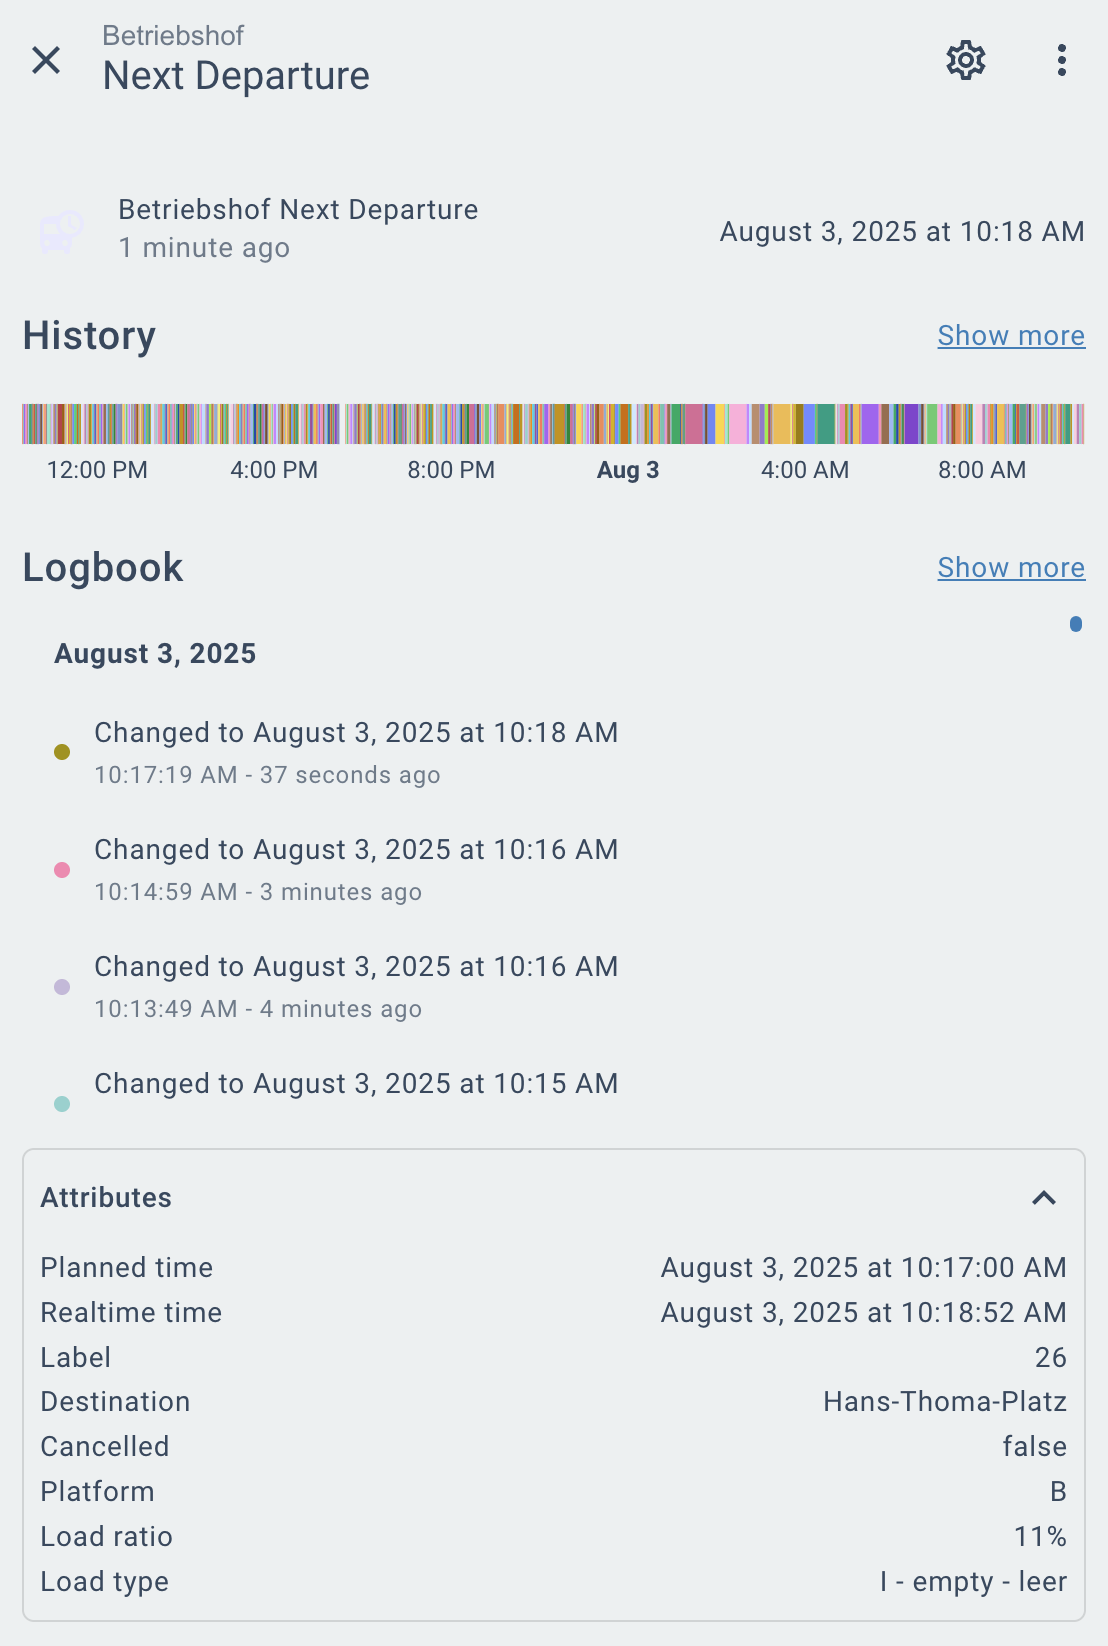
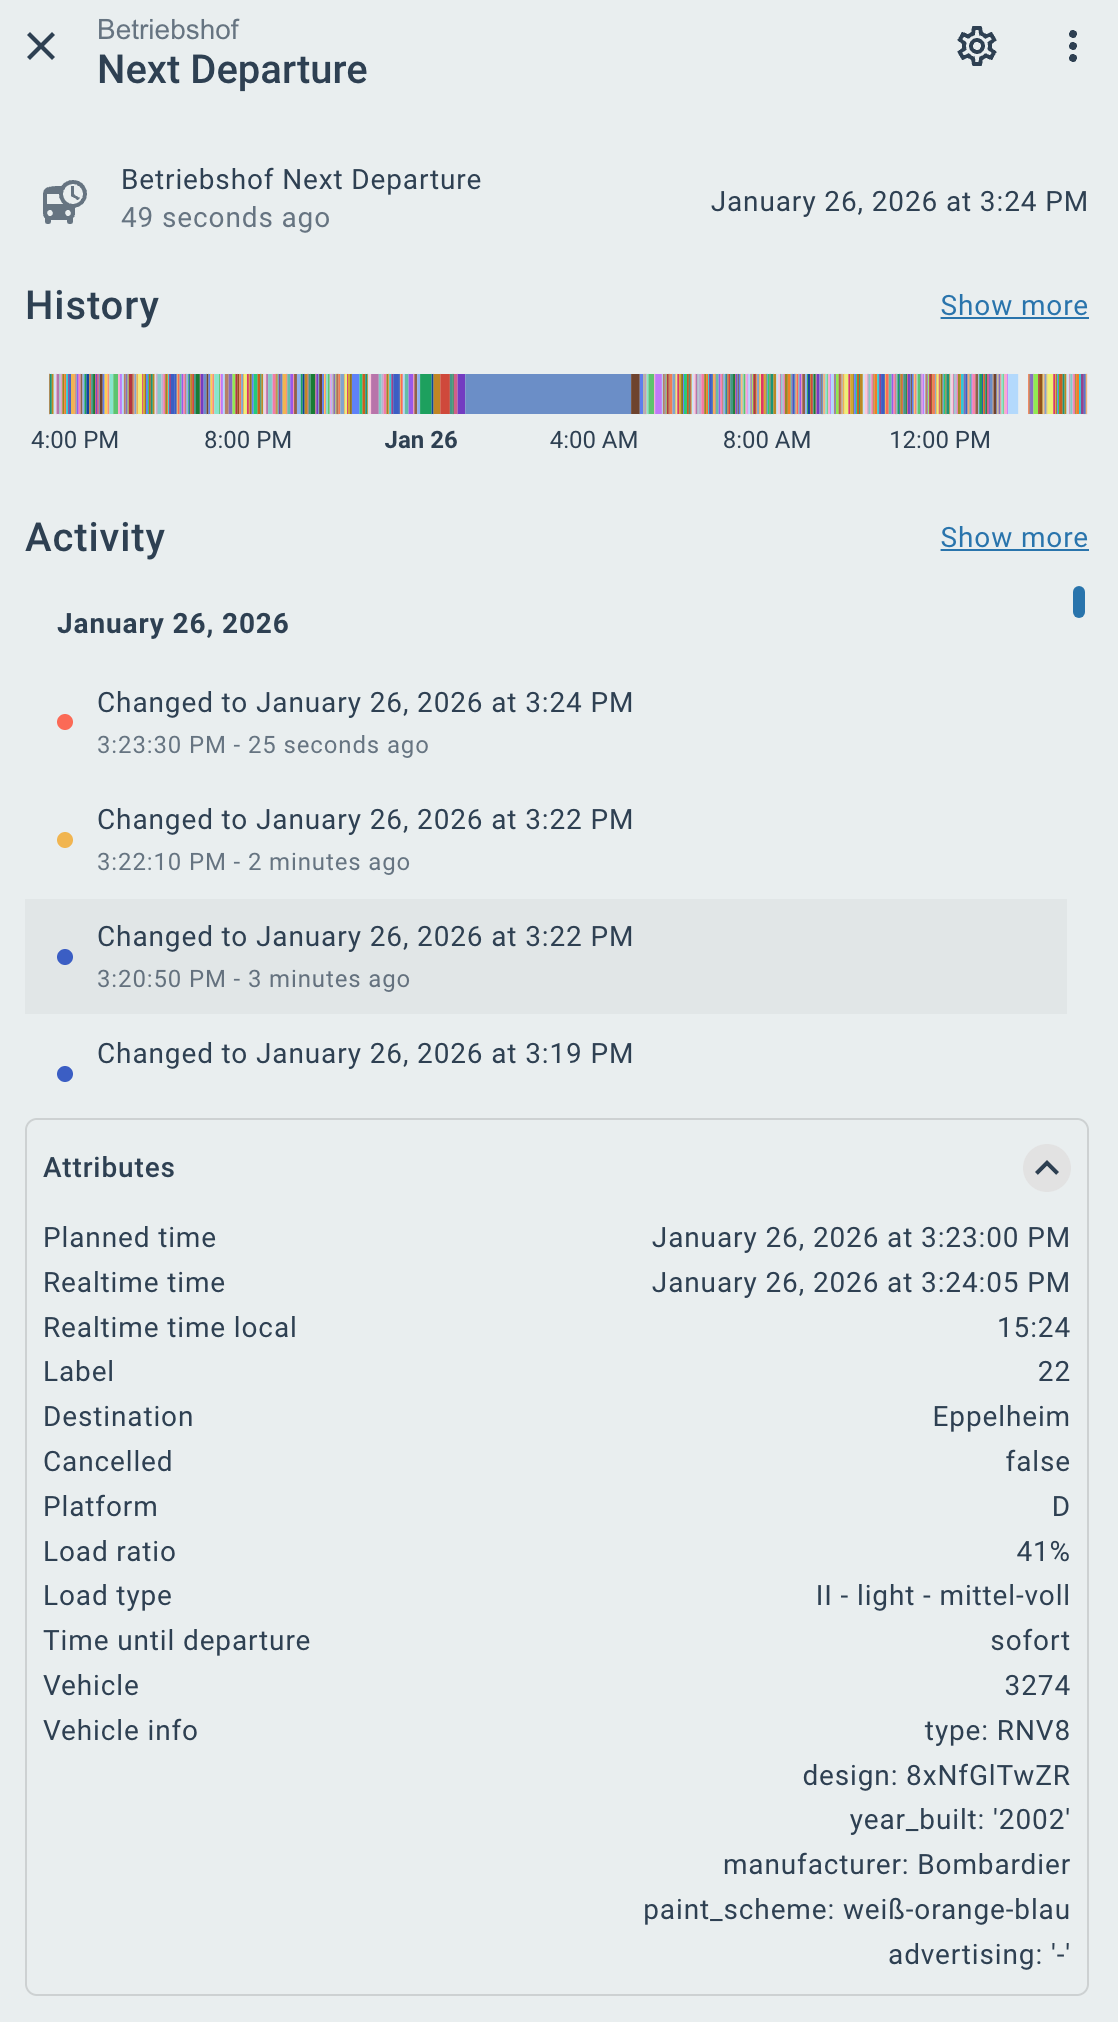
Update README and example image

diff --git a/README.md b/README.md
@@ -81,7 +81,12 @@ The station ID (hafasId) can be found in a json file [here](https://www.opendata
 | `destination_filter` | string | Optional parameter to filter destinations | No | (empty, filtering nothing) |
 
 ##### **Destination Filter:**  
-The destination filter needs to be a regular expression, in the simplest case just the name of the destination. This can be `Bismarckplatz` for example. You can choose more complex rules such as filtering out destinations `^((?!Bismarckplatz).)*$`, which might be beneficial depending on your needs.  
+The destination filter needs to be a regular expression, in the simplest case just the name of the destination. This can be `Bismarckplatz` for example. You can choose more complex rules such as filtering out destinations `^((?!Bismarckplatz).)*$`, which might be beneficial depending on your needs.
+
+##### **Tram Vehicle Info:**
+The vehicle info is provided based on this website and the vehicle ID provided by the RNV API: [https://www.tram-info.de/wagenp/rnv_a.php](https://www.tram-info.de/wagenp/rnv_a.php)
+
+Currently additional information about the vehicle are only available for trams.
 
 #### **Remove a station:**  
 Select a station from your saved list to remove it (this also deletes associated devices).
